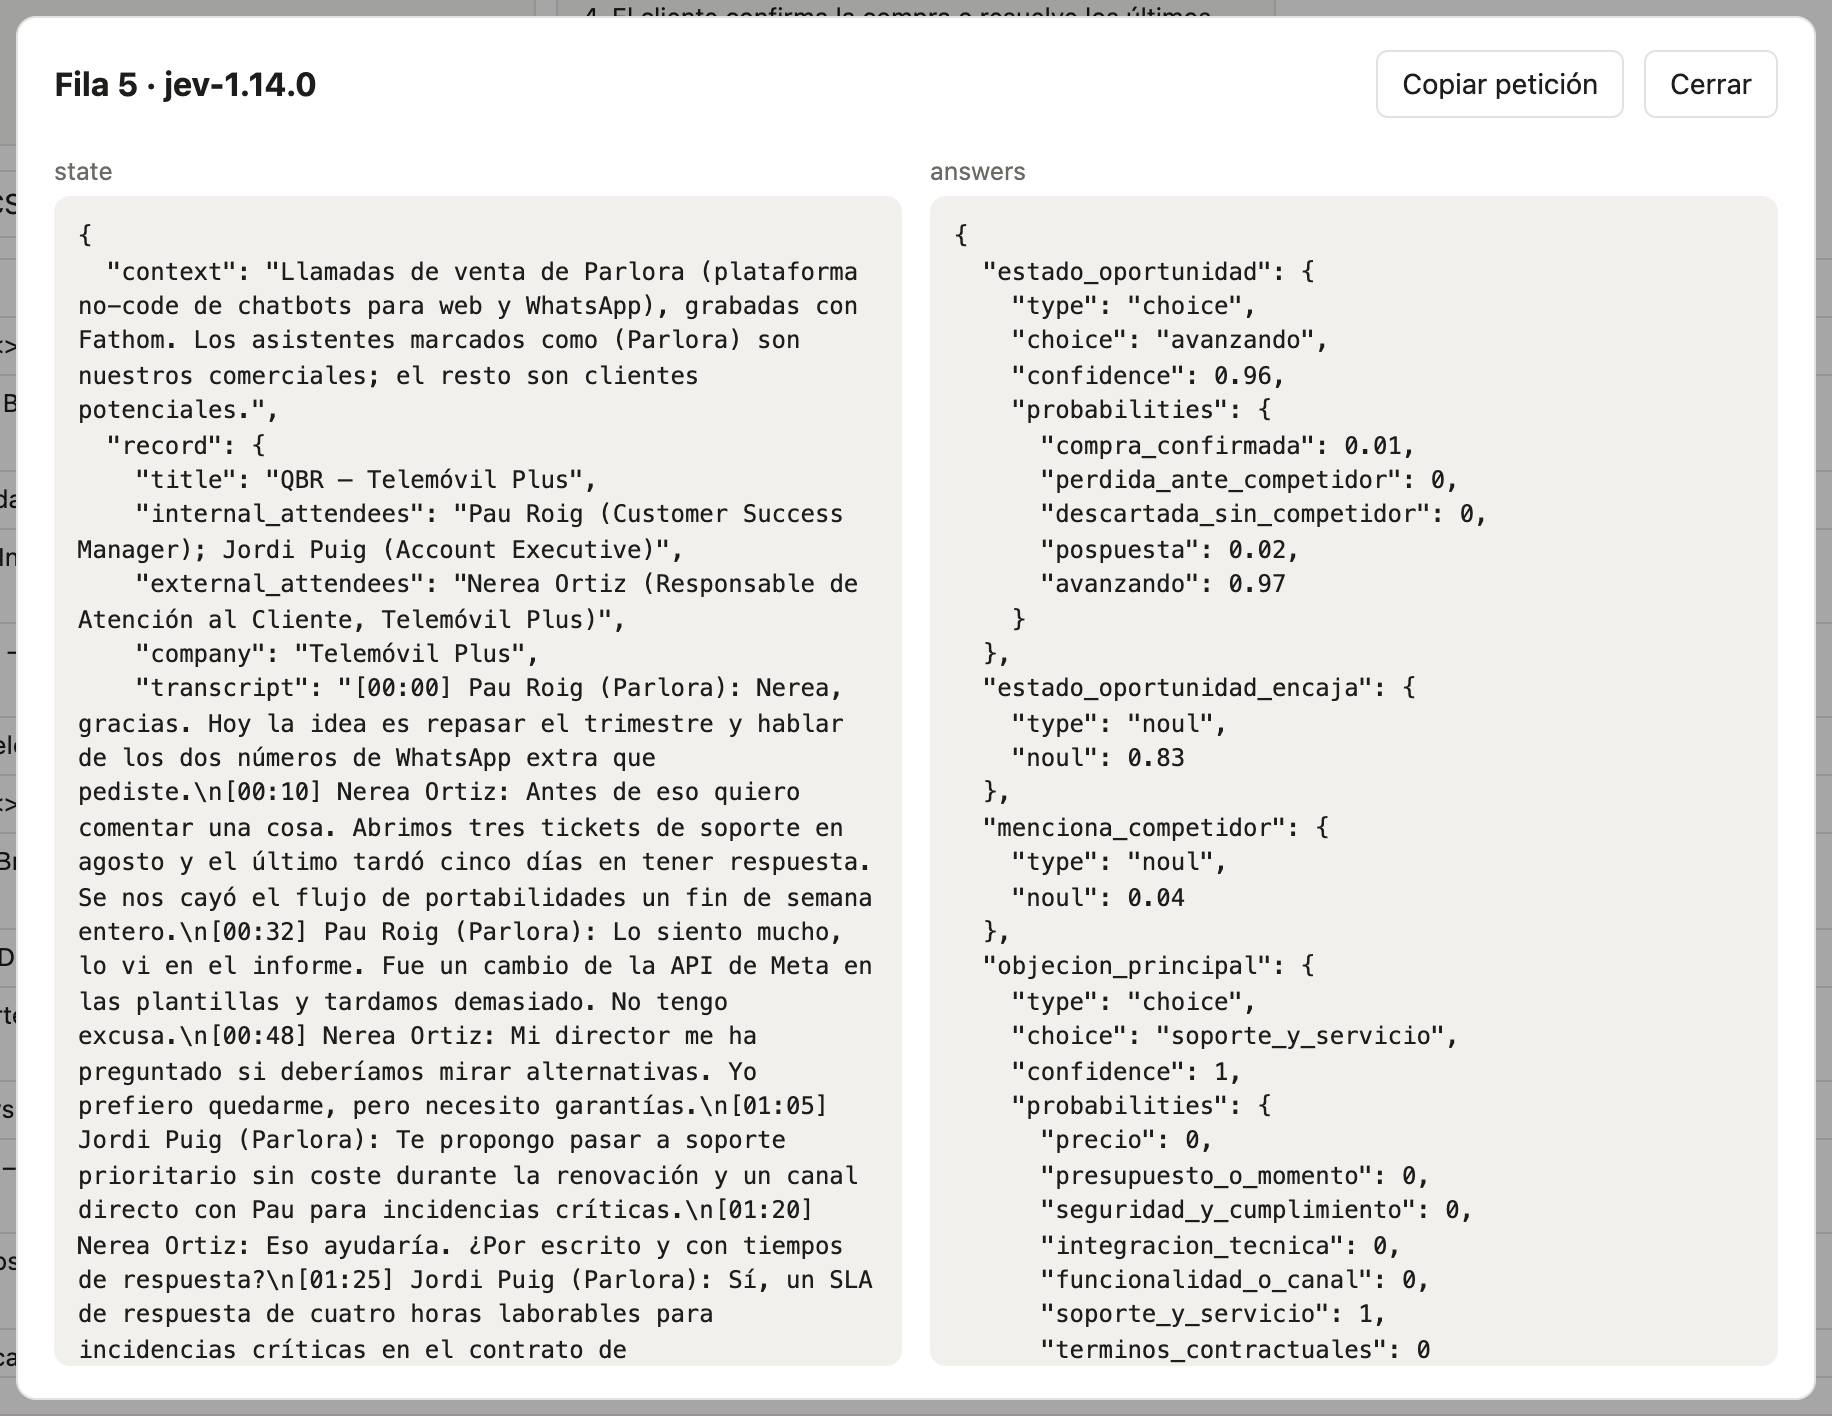
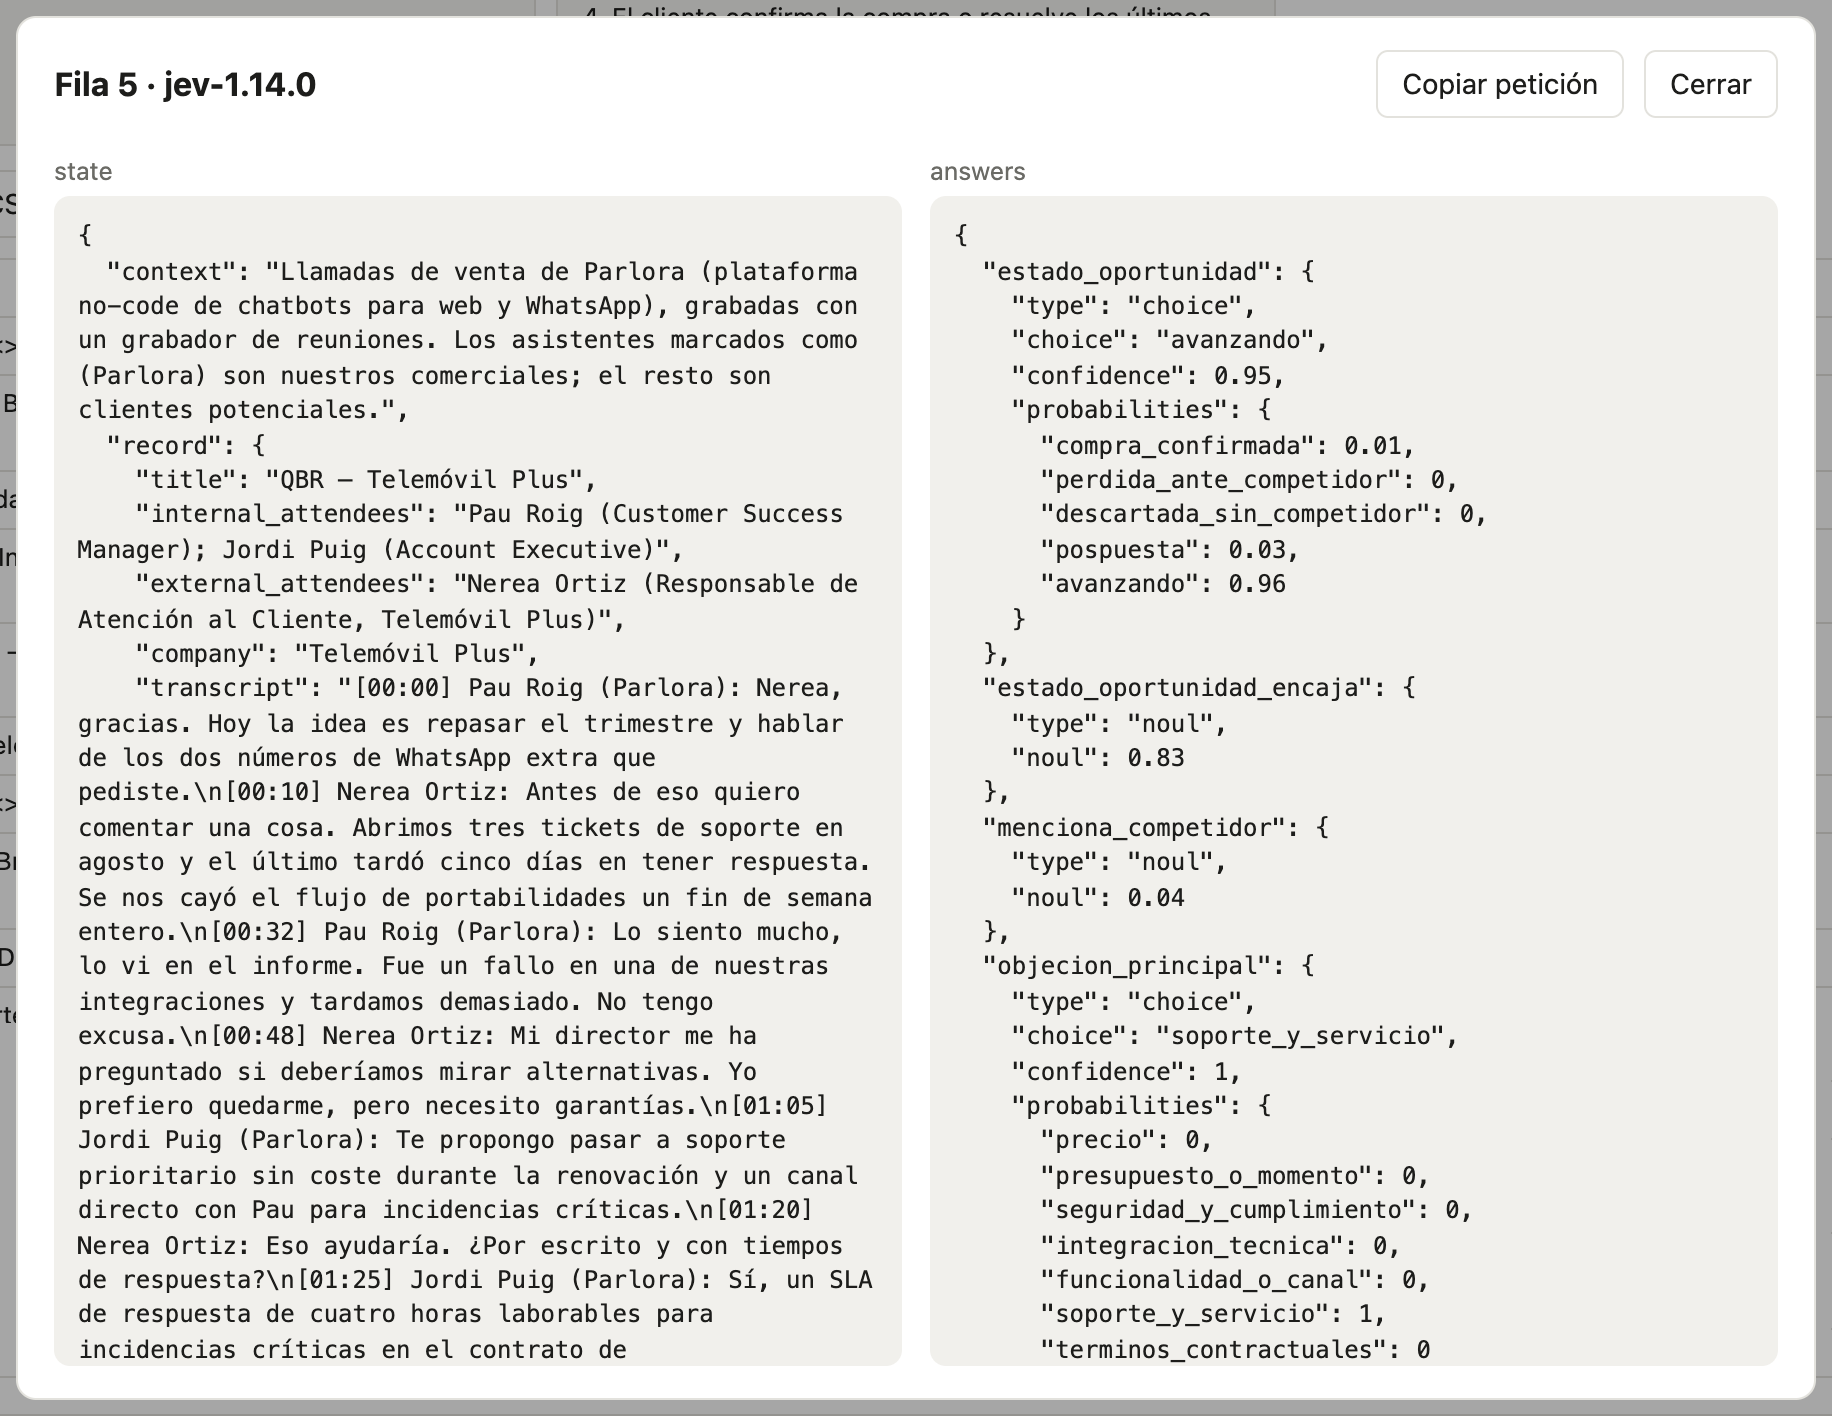
Make Parlora less specific and drop private-repo wording
Plans become Básico, Plus and Empresa, discounts lose their exact
percentages, the support incident no longer names Meta's API, and the
calls are no longer said to be recorded with Fathom. The README stops
calling the repository private, and the screenshots are regenerated.

Changed region(s): [[0.0311, 0.2175, 0.4667, 0.3107], [0.0622, 0.6525, 0.4356, 0.7147]]

diff --git a/README.md b/README.md
@@ -34,12 +34,11 @@ herramienta te propone también esas reglas, en el "boceto de la lógica de deci
 
 ## Qué necesitas
 
-1. **Acceso a este repositorio** en GitHub. Si no lo ves, pide al propietario que te invite.
-2. **Dos claves de API**, o que alguien de tu equipo te las pase:
+1. **Dos claves de API**, o que alguien de tu equipo te las pase:
    - **TypeSafe** (para Jev): en [console.typesafe.ai](https://console.typesafe.ai).
    - **Anthropic** (para Opus, el que redacta las preguntas): en
      [platform.claude.com](https://platform.claude.com).
-3. **Claude Code**, que hará la instalación por ti. Vale la app de escritorio de Claude (pestaña
+2. **Claude Code**, que hará la instalación por ti. Vale la app de escritorio de Claude (pestaña
    Code) o la versión de terminal.
 
 Las claves son como contraseñas: no las pegues en documentos compartidos ni en chats.
@@ -51,7 +50,7 @@ Las claves son como contraseñas: no las pegues en documentos compartidos ni en 
 1. Abre Claude Code en la carpeta donde quieras guardar la herramienta (por ejemplo, `Documentos`).
 2. Copia y pega este mensaje:
 
-   > Clona el repositorio privado de GitHub `pausanchez/jev-workbench` e instala lo que haga falta
+   > Clona el repositorio de GitHub `pausanchez/jev-workbench` e instala lo que haga falta
    > para usarlo (incluido Node.js 24 o superior si no lo tengo). Crea el fichero `.env` a partir de
    > `.env.example`, pero no me pidas las claves por el chat: dime qué fichero tengo que abrir para
    > pegarlas yo. Cuando las haya pegado, arranca la herramienta y dime qué dirección abrir en el
